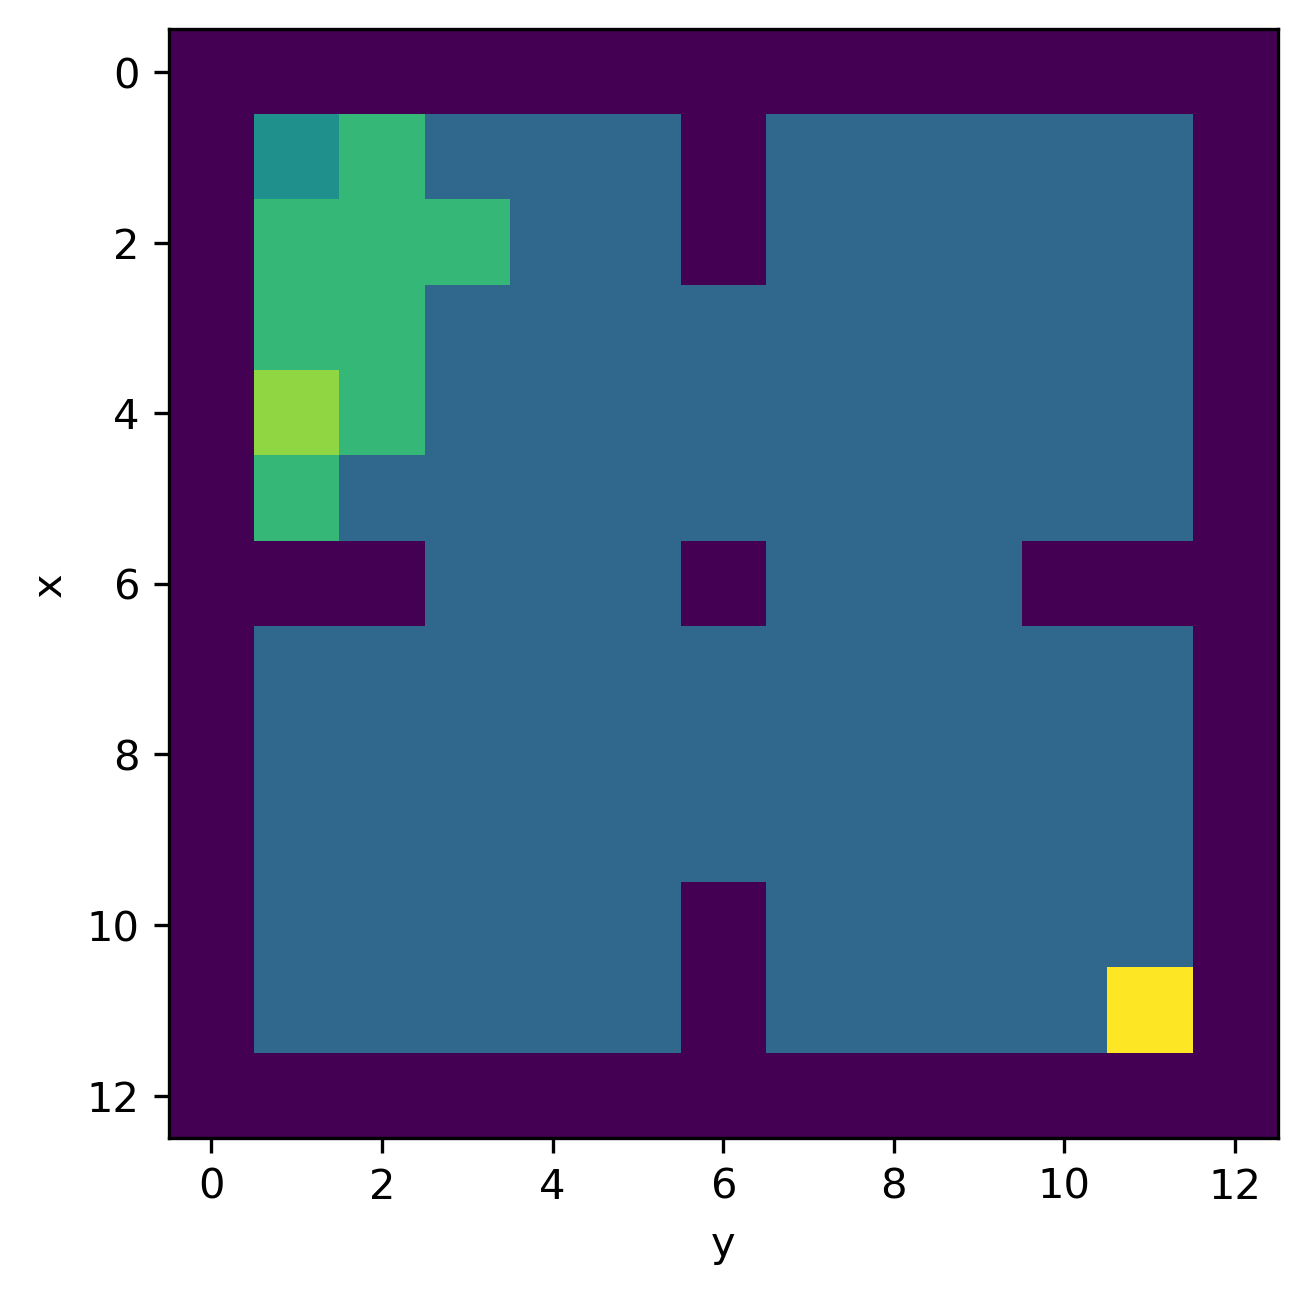
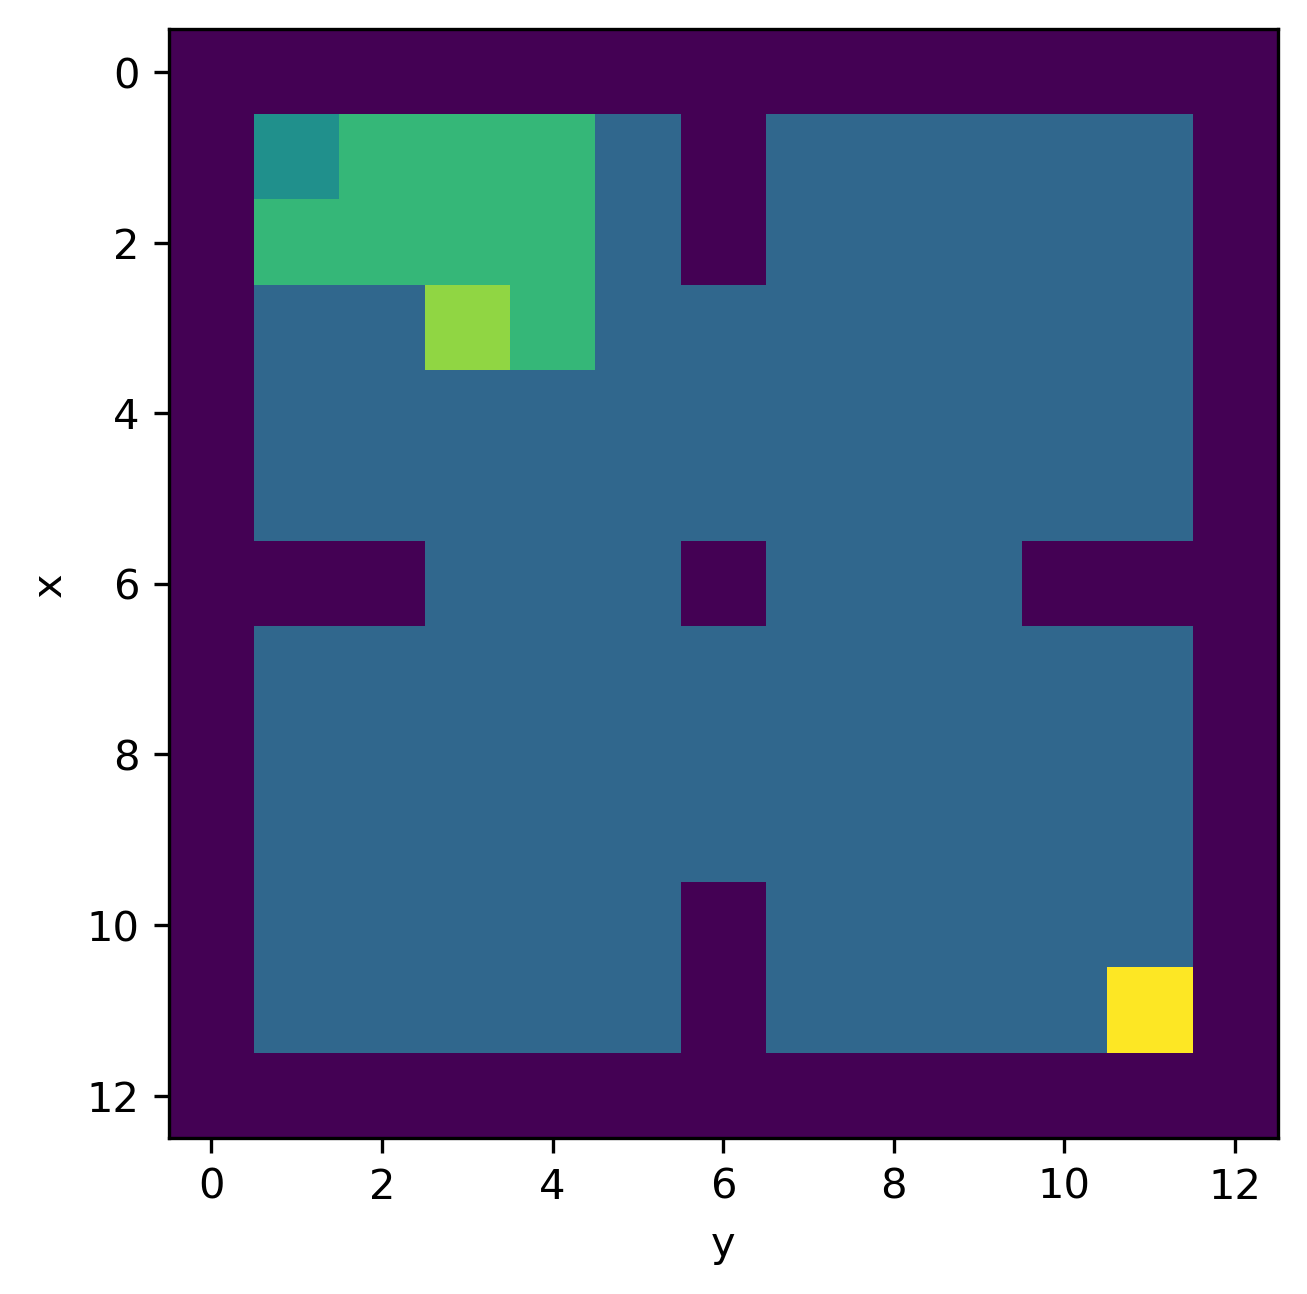
q3 partial

Changed region(s): [[0.1836, 0.0618, 0.4591, 0.4328]]

diff --git a/p3-templates/GCBC.py b/p3-templates/GCBC.py
@@ -5,6 +5,9 @@ import matplotlib.pyplot as plt
 import numpy as np
 from numpy.random import randint
 from model_pytorch import ExpertModel, make_model
+import heapq
+import torch
+from itertools import chain
 
 ### 3.1 Build Goal-Conditioned Task
 class FourRooms(gym.Env):
@@ -41,17 +44,24 @@ class FourRooms(gym.Env):
         self.action_space = spaces.Discrete(4)
 
         # you may use self.act_map in search algorithm 
-        self.act_mapI = {}
-        self.act_mapI[(1, 0)] = 0
-        self.act_mapI[(0, 1)] = 1
-        self.act_mapI[(-1, 0)] = 2
-        self.act_mapI[(0, -1)] = 3
+        self.act_map = {}
+        self.act_map[(1, 0)] = 0
+        self.act_map[(0, 1)] = 1
+        self.act_map[(-1, 0)] = 2
+        self.act_map[(0, -1)] = 3
 
-        self.act_map = dict() 
-        self.act_map[0] = np.array([1, 0])
-        self.act_map[1] = np.array([0, 1])
-        self.act_map[2] = np.array([-1, 0])
-        self.act_map[3] = np.array([0, -1])
+        self.act_inverse = {}
+        self.act_inverse[(1,0)] = np.array([-1,0], dtype = np.int_) 
+        self.act_inverse[(0,1)] = np.array([0, -1], dtype = np.int_) 
+        self.act_inverse[(0,-1)] = np.array([0, 1], dtype = np.int_) 
+        self.act_inverse[(-1,0)] = np.array([1, 0], dtype = np.int_) 
+
+    def valid(self, new_state):
+
+        #TODO Currently not wrapping around 
+        return (new_state[0] < self.total_l and new_state[0] > -1) and\
+               (new_state[1] < self.total_l and new_state[1] > -1) and\
+               self.map[new_state[0], new_state[1]]
 
     def step(self, a):
         assert self.action_space.contains(a)
@@ -59,24 +69,15 @@ class FourRooms(gym.Env):
         info = dict() 
         reward = np.float32(0)
 
-        action_vec = self.act_map[a] 
+        action_vec = self.act_set[a] 
         new_state = action_vec + self.s  
-
-        print("State =>", self.s, "Action => ", action_vec, "New State => ", new_state)
-
-        #TODO Currently not wrapping around 
-        if ( (new_state[0] < self.total_l and new_state[0] > -1) and        # Check we are in bounds 
-             (new_state[1] < self.total_l and new_state[1] > -1) and 
-              self.map[new_state[0], new_state[1]]):
+        if self.valid(new_state):
             self.s = new_state 
-        
-        print("State_Prime =>", self.s)
 
         self.t += 1
 
         if (self.s == self.g).all():
             reward = np.float32(1)
-
         done = bool( reward > 0 or
                     self.t > self.T ) 
 
@@ -158,55 +159,158 @@ def test_step(env, l):
         bbox_inches='tight', pad_inches=0.1, dpi=300)
     #plt.show()
 
-# def shortest_path_expert(env):
-# from queue import Queue
-# N = 1000
-# expert_trajs = []
-# expert_actions = []
+def neighbors(s, env):
+    neighbors = []
 
-# # WRITE CODE HERE
-# # END
-# # You should obtain expert_trajs, expert_actions from search algorithm
+    for act_vec in env.act_set:
+        
+        candidate_neighbor = act_vec + np.array(s)
 
-# fig, axes = plt.subplots(5,5, figsize=(10,10))
-# axes = axes.reshape(-1)
-# for idx, ax in enumerate(axes):
-# plot_traj(env, ax, expert_trajs[idx])
+        if env.valid(candidate_neighbor):
+            neighbor = list(candidate_neighbor)
+            assert type(neighbor) == list
+            neighbors.append((neighbor, env.act_inverse[tuple(act_vec)]))
 
-# plt.savefig('p2_expert_trajs.png', 
-#     bbox_inches='tight', pad_inches=0.1, dpi=300)
-# plt.show()
+    return neighbors
 
-# def action_to_one_hot(env, action):
-# action_vec = np.zeros(env.action_space.n)
-# action_vec[action] = 1
-# return action_vec  
+def reduceKey(min_heap, key, neighbor):
+    min_heap_tmp = list(filter(lambda item: item[1] != neighbor, min_heap))
+    heapq.heapify(min_heap_tmp)
+    heapq.heappush(min_heap_tmp, (key, neighbor))
+    return min_heap_tmp
 
-# class GCBC:
+def sssp(g, env):
+    dist_arr = np.full(env.map.flatten().shape, np.Inf, dtype = np.float32).reshape(env.total_l, env.total_l)
+    dist_arr[g[0], g[1]] = 0 
+    distance = lambda state: float(dist_arr[state[0], state[1]])
+    curr = list(g)
+    resultTree = {}
+    min_heap = [ (distance(curr), curr) ]
+    heapq.heapify(min_heap)
 
-# def __init__(self, env, expert_trajs, expert_actions):
-# self.env = env
-# self.expert_trajs = expert_trajs
-# self.expert_actions = expert_actions
-# self.transition_num = sum(map(len, expert_actions))
-# self.model = make_model(input_dim=4, out_dim=4)
-# # state_dim + goal_dim = 4
-# # action_choices = 4
+    while len(min_heap) > 0:
 
-# def reset_model(self):
-# self.model = make_model(input_dim=4, out_dim=4)	
+        dist_curr, curr = heapq.heappop(min_heap)
 
-# def generate_behavior_cloning_data(self):
-# # 3 you will use action_to_one_hot() to convert scalar to vector
-# # state should include goal
-# self._train_states = []
-# self._train_actions = []
+        for neighbor, inverse_action in neighbors(curr, env):
 
-# # WRITE CODE HERE
-# # END
+            if dist_curr + 1 < distance(neighbor):
+                key = dist_curr + 1
+                dist_arr[neighbor[0], neighbor[1]] = key 
 
-# self._train_states = np.array(self._train_states).astype(np.float) # size: (*, 4)
-# self._train_actions = np.array(self._train_actions) # size: (*, 4)
+                if neighbor not in chain(*min_heap):
+                    heapq.heappush(min_heap, (key, neighbor))
+
+                else:
+                    # Note min_heap reassigned to a new heap with the key value of neighbor reduced
+                    min_heap = reduceKey(min_heap, key, neighbor)
+
+                resultTree[tuple(neighbor)] = inverse_action 
+
+    return resultTree 
+
+def generate_expert_episode(env, plot = False):
+    actions = []
+    state = env.reset()
+    g = state[:2]
+    done = False
+    spTree = sssp(state[2:], env)
+    policy = lambda curr_s: spTree[tuple(curr_s)]
+    traj = [state]
+
+    # Follow shortest path Tree
+    while not done:
+        action_vec = policy(state[:2]) 
+        action = env.act_map[tuple(action_vec)]
+        new_state, reward, done, _ = env.step(action)
+        state = new_state
+        actions.append(action)
+        traj.append(state)
+
+    env.close()
+
+    traj = np.array(traj)
+    actions = np.array(actions)
+
+    if plot:
+        ax = plt.subplot()
+        plot_traj(env, ax, traj, g)
+        plt.savefig('../p3-2.png', 
+            bbox_inches='tight', pad_inches=0.1, dpi=300)
+
+    return traj, actions 
+
+def generate_expert_trajectories(env, N):
+    expert_trajs = []
+    expert_actions = []
+
+    for _ in range(N):
+        traj, actions = generate_expert_episode(env)
+        expert_trajs.append(traj)
+        expert_actions.append(actions)
+
+    return expert_trajs, expert_actions
+    # def action_to_one_hot(env, action):
+    # action_vec = np.zeros(env.action_space.n)
+    # action_vec[action] = 1
+    # return action_vec  
+
+class GCBC:
+
+    def __init__(self, env, expert_trajs, expert_actions, device, num_trajs = 5, nS = 4):
+        self.num_episodes = num_trajs
+        self.nS = nS 
+        self.env = env
+        self.device = device
+        self.expert_trajs = expert_trajs
+        self.expert_actions = expert_actions
+        self.transition_num = sum(map(len, expert_actions))
+        self.model = make_model(device, input_dim=4, output_dim=4)
+        #state_dim + goal_dim = 4
+        #action_choices = 4
+
+    def reset_model(self):
+        self.model = make_model(self.device, input_dim=4, output_dim=4)	
+
+    def tensor_trajectory(self, train_states, train_actions, episode_lens):
+        longest_episode = int(np.max(np.array(episode_lens)))
+
+        O_s = torch.zeros((self.num_episodes, longest_episode, self.nS)).float().to(self.device)
+        O_a = torch.zeros((self.num_episodes, longest_episode)).long().to(self.device)
+
+        for e in range(self.num_episodes):
+            curr_traj = train_states[e].astype(np.float32)
+            curr_actions = train_actions[e]
+
+            # Extend trajectory if necessary
+            if curr_traj.shape[0] < longest_episode:
+                padding = longest_episode - curr_traj.shape[0]
+                curr_traj = np.pad(curr_traj, [(0,padding), (0,0)], mode = 'constant', constant_values = np.nan)
+                curr_actions = np.pad(curr_actions, (0,padding), mode = 'constant', constant_values = -1)
+            
+            if curr_actions.shape != longest_episode-1:
+                print(curr_actions)
+
+            O_s[e, :] = torch.from_numpy(curr_traj).float()
+            O_a[e, :] = torch.from_numpy(curr_actions).long()
+
+        return O_s, O_a
+
+
+    def generate_behavior_cloning_data(self):
+        train_states = []
+        train_actions = []
+        episode_lens = []
+
+        for _ in range(self.num_episodes):
+            traj_index = randint(len(self.expert_trajs))
+            states = self.expert_trajs[traj_index]
+            actions = self.expert_actions[traj_index]
+            train_states.append(states)
+            train_actions.append(actions)
+            episode_lens.append(states.shape[0])
+            
+        return self.tensor_trajectory(train_states, train_actions, episode_lens)
 
 # def generate_relabel_data(self):
 # # 4 apply expert relabelling trick

diff --git a/F21_hw3_submission.tex b/F21_hw3_submission.tex
@@ -217,14 +217,22 @@ $x = (0, 1, 2, 3, 4)$ : \hspace{3.5em} \begin{tcolorbox}[fit,height=1cm, width=5
 
 \subsection*{3.2 Run Search Algorithm as Expert (8 pt)}
 
-\begin{tcolorbox}[fit,height=30em, width=40em, blank, borderline={1pt}{1pt},nobeforeafter]
-\begin{center}
-%YOUR SOLUTION HERE%
+\includegraphics[height= 5cm, width=5cm]{p3-2-0}
+\includegraphics[height= 5cm, width=5cm]{p3-2-1}
+\includegraphics[height= 5cm, width=5cm]{p3-2-2} 
+\\
+\includegraphics[height= 5cm, width=5cm]{p3-2-3}
+\includegraphics[height= 5cm, width=5cm]{p3-2-4}
+\includegraphics[height= 5cm, width=5cm]{p3-2-5}
+\\
 
-\end{center}
-\end{tcolorbox}
-
-
+\includegraphics[height= 5cm, width=5cm]{p3-2-6}
+\includegraphics[height= 5cm, width=5cm]{p3-2-7}
+\includegraphics[height= 5cm, width=5cm]{p3-2-8}
+\\
+\includegraphics[height= 5cm, width=5cm]{p3-2-9}
+\includegraphics[height= 5cm, width=5cm]{p3-2-10}
+\includegraphics[height= 5cm, width=5cm]{p3-2-11}
 
 \subsection*{3.3 Train Goal-Conditioned Policy via BC (10 pt)}
 

diff --git a/p3-templates/playground.py b/p3-templates/playground.py
@@ -1,5 +1,7 @@
 # %%
 from collections import OrderedDict 
+import torch
+from model_pytorch import ExpertModel
 import gym
 from gym import spaces
 import matplotlib.pyplot as plt
@@ -8,9 +10,13 @@ import random
 import GCBC 
 from importlib import reload
 reload(GCBC)
-
-# %%
-# build env
+import heapq
 l, T = 5, 30
 env = GCBC.FourRooms(l, T)
-GCBC.test_step(env,l)
+init = env.reset()
+from itertools import chain
+
+# %%
+et, ea = GCBC.generate_expert_trajectories(env, 5)
+np.pad(et[0], [(0,1), (0,0)], mode = 'constant', constant_values = -1)
+

diff --git a/p3-templates/model_pytorch.py b/p3-templates/model_pytorch.py
@@ -1,16 +1,4 @@
 import torch
-class ExpertModel(torch.nn.Module):
-    def __init__(self):
-        super().__init__()
-        self.fc1 = torch.nn.Linear(4,24)
-        self.fc2 = torch.nn.Linear(24,48)
-        self.fc3 = torch.nn.Linear(48,2)
-    def forward(self, x):
-        x = torch.tanh(self.fc1(x))
-        x = torch.tanh(self.fc2(x))
-        x = self.fc3(x)
-        return x
-
 
 class FullyConnectedModel(torch.nn.Module):
     def __init__(self, input_dim=4, output_dim=2):
